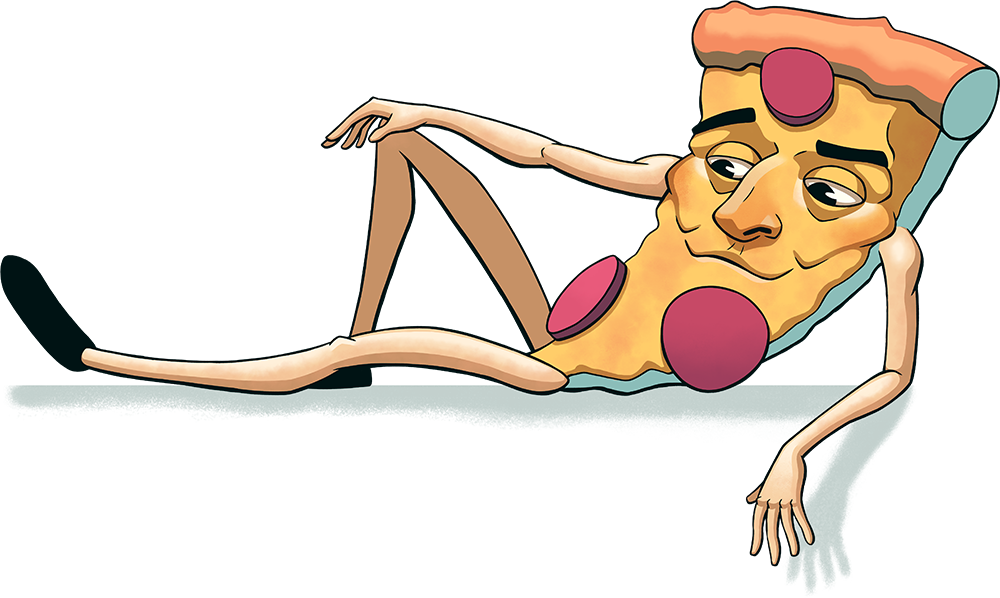
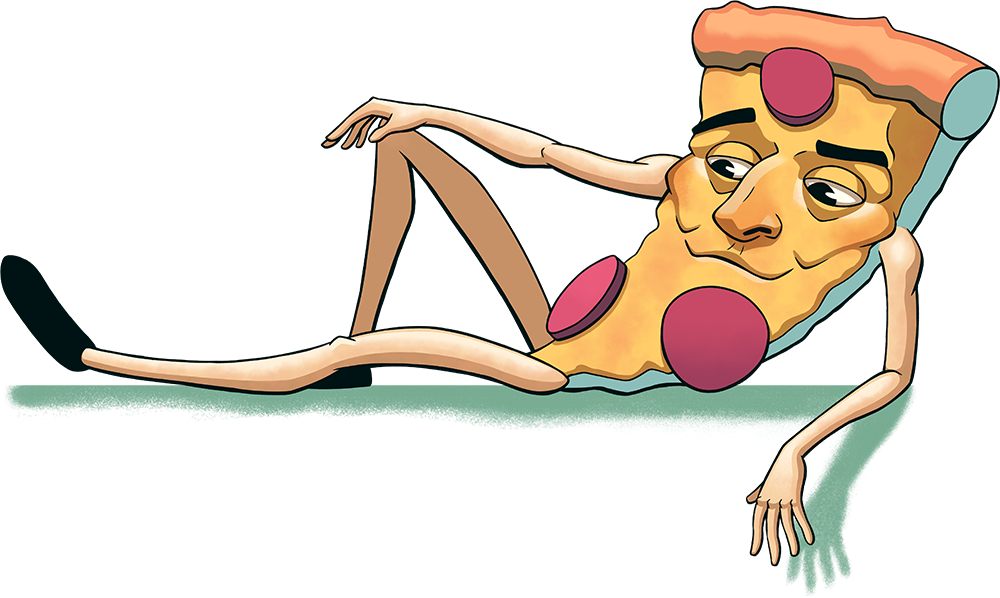
Modify darkLight, pizza.png, and soda.png

Changed region(s): [[0.0, 0.6321, 0.93, 0.9933]]

diff --git a/tailwind.config.ts b/tailwind.config.ts
@@ -17,7 +17,7 @@ const config: Config = {
         brand: {
           extraLight: '#f7fff2',
           light: '#ebfce1',
-          darkLight: '#d3e5c8',
+          darkLight: '#cbeab9',
           regular: '#8ec571',
           darkRegular: '#6fb14c',
           darkerRegular: '#67a148',
